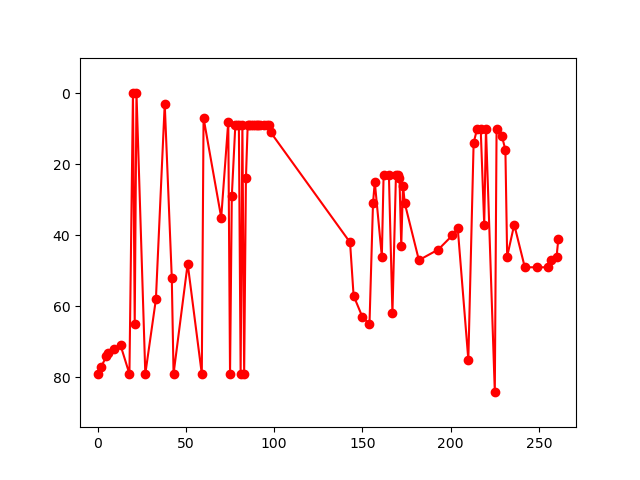
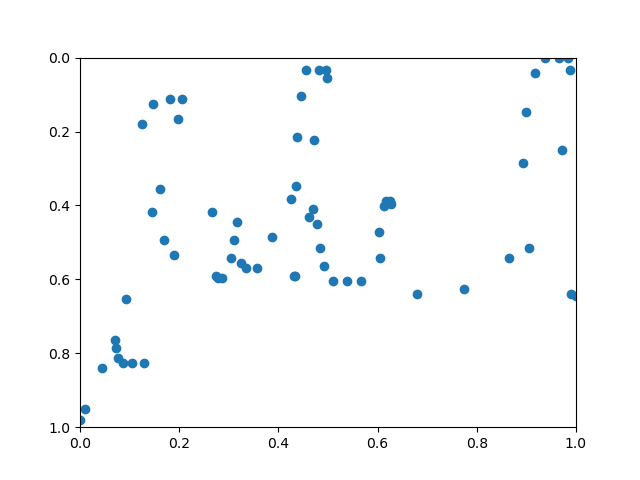
Just minor changes

diff --git a/index.html b/index.html
@@ -1,0 +1,88 @@
+<html>
+    <head>
+        <title>{{title}}</title>
+        <link rel="stylesheet" href="static/CSS/style.css">
+      </head>
+    <body>
+      <div class="ink-toolbar" id="toolbar">
+        <div class="ink-toolbar-begin">
+
+
+          <div class="ink-button-container">
+            <button class="ink-button" onclick="selectPen();" id="pen-button">
+              <img src="static/EXTERNAL/ICONS/create-icon.svg">
+            </button>
+            <div id="sections_panel">
+              <div>
+              <label for="color_picker">Choose Color</label>
+              <input type="color" id="color_picker">
+              
+              <br>
+              <br>
+              <hr>
+              <label for="brush_size">Select Brush Size</label>
+              <br>
+              <input type="range" id="brush_size">
+            </div>
+            </div>
+          </div>
+          
+          <div class="ink-button-container">
+            <button class="ink-button" onclick="selectEraser();" id="eraser-button">
+              <img src="static/EXTERNAL/ICONS/eraser-icon.svg" height="24px" width="24px">
+            </button>
+            <div id="sections_panel_1">
+              <div>
+                <label for="brush_size">Select Eraser Size</label>
+                <br>
+                <input type="range" id="eraser_size">
+              </div>
+            </div>
+          </div>
+
+          <div class="ink-button-container">
+            <button class="ink-button" onclick="ClearAll();">
+              <img src="static/EXTERNAL/ICONS/clear_all-icon.svg">
+            </button>
+          </div>
+
+          </div>
+
+          <div class="ink-toolbar-end">
+            
+            <div class="ink-button-container">
+              <button class="ink-button" onclick="undo();" id="undo-button">
+                <img src="static/EXTERNAL/ICONS/undo-icon.svg">
+              </button>
+            </div>
+
+            <div class="ink-button-container">
+              <button class="ink-button" onclick="redo();" id="redo-button">
+                <img src="static/EXTERNAL/ICONS/redo-icon.svg">
+              </button>
+            </div>
+
+            
+            <div class="ink-button-container">
+              <button class="ink-button" onclick="save();">
+                <img src="static/EXTERNAL/ICONS/save-icon.svg">
+              </button>
+            </div>
+
+            <div class="ink-button-container">
+              <button onclick="plot();">
+                Plot
+              </button>
+            </div>
+
+            </div>
+        
+          </div>
+          <div id="sketching_area">
+            <h1 id="output">{{character}}</h1>
+    <canvas id="mainboard" style="position: fixed;"></canvas>
+  </div>
+    
+    </body>
+    <script src="static/JS/index.js"></script>
+</html>

diff --git a/main2.py b/main2.py
@@ -10,7 +10,7 @@ import keras
 import numpy as np
 import random
 import matplotlib.pyplot as plt
-model=keras.models.load_model("DL-part/Model/model_UJI2.h5")
+model=keras.models.load_model("DL-part/Model/model_UJI2_newest.h5")
 
 app = Flask(__name__)
 
@@ -18,7 +18,16 @@ app = Flask(__name__)
 #MYSQL CONFIGURATION
 app.config['SECRET_KEY'] = 'AjJ0lXaX5K9tai8QsUhwwQ'
 
-
+def scale_down(x,fc):
+    if(fc==True):
+        skip=math.ceil(len(x)/(len(x)-120))
+    else:
+        skip=len(x)//(len(x)-120)
+    templst=[]
+    for i in range(len(x)):
+        if(i%skip!=0):
+            templst.append(x[i])
+    return templst
 #HOMEPAGE
 
 @app.route('/',methods=['GET','POST'])
@@ -33,7 +42,15 @@ def home():
         
         #print(lst)
 
+        if(len(lst)>240):
+            lst=scale_down(lst,True)
+                
+        if(len(lst)>120):
+            lst=scale_down(lst,False)
+        
+
         StrokeSet=np.array(lst)
+        
         #print(StrokeSet)
         minx = min(StrokeSet[:, 0])
         miny = min(StrokeSet[:, 1])
@@ -49,25 +66,24 @@ def home():
         StrokeSet[:, 1] = StrokeSet[:, 1] / (maxy-miny)
 
 
-        if(len(StrokeSet)<392):
-            StrokeSet=np.vstack((StrokeSet,(np.zeros((392-len(StrokeSet),2)))))
+        if(len(StrokeSet)<120):
+            StrokeSet=np.vstack((StrokeSet,(np.zeros((120-len(StrokeSet),2)))))
 
         #print(StrokeSet.shape)
-        StrokeSet=np.reshape(StrokeSet,(1,392,2))
+        StrokeSet=np.reshape(StrokeSet,(1,120,2))
 
 
         char_map=['a', 'b', 'c', 'd', 'e', 'f', 'g', 'h', 'i', 'j', 'k', 'l', 'm',
        'n', 'o', 'p', 'q', 'r', 's', 't', 'u', 'v', 'w', 'x', 'y', 'z',
        'A', 'B', 'C', 'D', 'E', 'F', 'G', 'H', 'I', 'J', 'K', 'L', 'M',
        'N', 'O', 'P', 'Q', 'R', 'S', 'T', 'U', 'V', 'W', 'X', 'Y', 'Z',
-       '0', '1', '2', '3', '4', '5', '6', '7', '8', '9', '.', ',', ';',
-       ':', '?', '!', "'", '"', '(', ')', '%', '-', '@', '$', '<', '>']
+       '0', '1', '2', '3', '4', '5', '6', '7', '8', '9']
 
         #print(StrokeSet)
         y=model.predict(StrokeSet)
 
         y=np.array(y)
-        y=np.reshape(y,(78,))
+        y=np.reshape(y,(62,))
 
         #print(y[np.argmax(y)]*100)
         return (str(char_map[np.argmax(y)])+str(y[np.argmax(y)]*100)), 200

diff --git a/DL-part/parse_uji.py b/DL-part/parse_uji.py
@@ -5,18 +5,32 @@ Created on Mon Nov 16 15:35:58 2020
 @author: Anant
 """
 import numpy as np
+import math
 
 file=open(r"Data/UJI/ujipenchars2.txt",mode='r',encoding='utf-8')
 
-nl=0
+def scale_down(x,fc):
+    if(fc==True):
+        skip=math.ceil(len(x)/(len(x)-120))
+    else:
+        skip=len(x)//(len(x)-120)
+    templst=[]
+    for i in range(len(x)):
+        if(i%skip!=0):
+            templst.append(x[i])
+    return templst
 
+nl=0
+exc=['.', ',', ';',':', '?', '!', "'", '"', '(', ')', '%', '-', '@', '$', '<', '>']
 X=[]
 Y=[]
+X_exc=[]
 for temp in file:
     if temp.startswith('// A'):
         for k in range(2):
             temp=file.readline()
             char=temp.split(' ')[1]
+            
             ns=int(file.readline().split(' ')[-1])
             x=[]
             for i in range(ns):
@@ -25,9 +39,17 @@ for temp in file:
                 point.pop(0)
                 for i in range(0,len(point),2):
                     x.append((float(point[i]),float(point[i+1])))
+            
+            if(len(x)>240):
+                x=scale_down(x,True)
                 
+            if(len(x)>120):
+                x=scale_down(x,False)
             x=[x,char]
             #print(x)
+            if char in exc:
+                X_exc.append(x)
+                continue
             X.append(x)
     else:
         pass
@@ -35,5 +57,21 @@ for temp in file:
 print("Done")
 
 
+arr=np.array(X)
 
-arr=np.load("Data/UJI/X.npy",allow_pickle=True)
+size=[]
+
+for row in arr:
+    size.append(len(row[0]))
+    
+size=sorted(list(set(size)),reverse=True)
+
+np.save()
+    
+    
+    
+    
+    
+    
+    
+    

diff --git a/main.py b/main.py
@@ -6,11 +6,11 @@ Created on Thu Nov 12 20:35:51 2020
 """
 import os
 from flask import Flask, render_template, request, jsonify
-import keras
+#import keras
 import numpy as np
 import random
 import matplotlib.pyplot as plt
-model=keras.models.load_model("DL-part/Model/model_char74k.h5")
+#model=keras.models.load_model("DL-part/Model/model_char74k.h5")
 app = Flask(__name__)
 
 #=============================================================================
@@ -104,12 +104,12 @@ def plot():
                 dictionary[c[0]]=c[1]
 
         for i in sorted(dictionary.keys()):
-            x.append(i-minx)
-            y.append(dictionary[i]-miny)
+            x.append((i-minx)/(maxx-minx))
+            y.append((dictionary[i]-miny)/(maxy-miny))
         #print(x,y)
 
-        plt.plot(x,y,'-ro')
-        plt.axis([-10,maxx-minx+10,maxy-miny+10,-10])
+        plt.scatter(x,y)
+        plt.axis([0,1,1,0])
         plt.savefig('plot.png')
         plt.close()
 

diff --git a/DL-part/dataset-loader-char.py b/DL-part/dataset-loader-char.py
@@ -21,22 +21,22 @@ def load_dataset():
     X=[]
     Y=[]
     maxi=-1
-    for dir in os.listdir("Char74k/Strokes"):
+    for dir in os.listdir("Data/Char74k/Strokes"):
         if(dir.endswith('-new')):
-            for files in os.listdir(f"Char74k/Strokes/{dir}"):
-               arr= np.load(f"Char74k/Strokes/{dir}/{files}",allow_pickle=True)
+            for files in os.listdir(f"Data/Char74k/Strokes/{dir}"):
+               arr= np.load(f"Data/Char74k/Strokes/{dir}/{files}",allow_pickle=True)
                x=arr[0]
                y=arr[1]
                X.append(x)
                maxi=max(maxi,len(x))
                Y.append(y)
-    X=pad_dataset(X,maxi)
+    #X=pad_dataset(X,maxi)
     return np.array(X),np.array(Y),maxi
 
 
 X_,Y_,ma=(load_dataset())
-np.save("X.npy",X_)
-np.save("Y.npy",Y_)
+np.save("Data/Char74k/X-raw.npy",X_)
+np.save("Data/Char74k/Y-raw.npy",Y_)
 
 
 print(X_.shape,Y_.shape)

diff --git a/DL-part/Serialise-char.py b/DL-part/Serialise-char.py
@@ -40,12 +40,7 @@ def parse(path,code):
     maxx = max(StrokeSet[:, 0])
     maxy = max(StrokeSet[:, 1])
     
-       
-    StrokeSet[:, 0] = StrokeSet[:, 0] - minx
-    StrokeSet[:, 1] = StrokeSet[:, 1] - miny
-    
-    StrokeSet[:, 0] = StrokeSet[:, 0] / (maxx-minx)
-    StrokeSet[:, 1] = StrokeSet[:, 1] / (maxy-miny)
+      
     
     
     StrokeSet=[StrokeSet,code]
